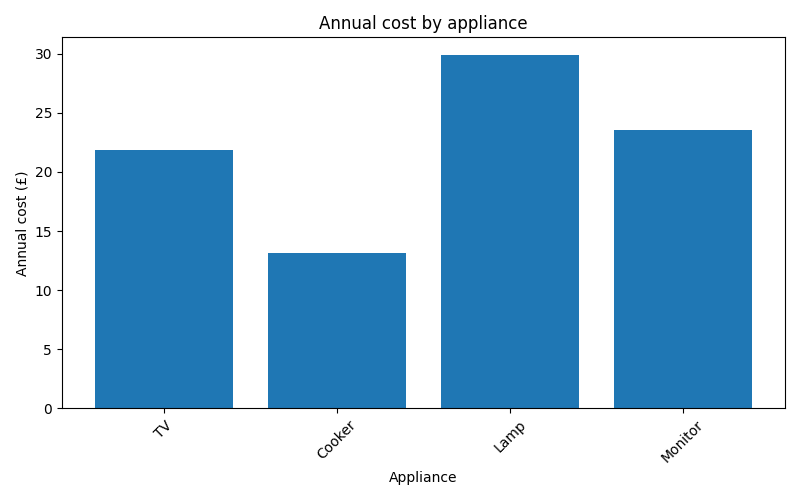
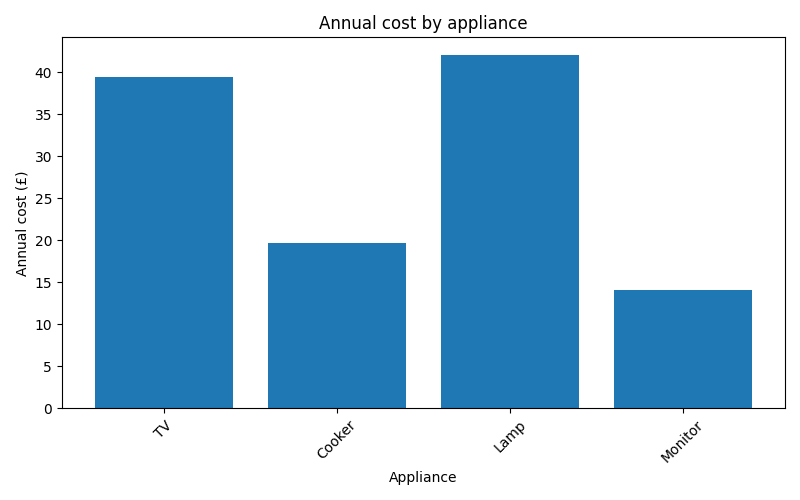
Updated mainpy

diff --git a/main.py b/main.py
@@ -93,7 +93,6 @@ print(f'Total annual cost: £{total_annual_cost:.2f}')
 print(f'Total annual emissions: {total_emissions:.2f}')
 
 df.to_csv('outputs/results.csv', index=False)
-print(df.columns)
 annual_cost_chart(df)
 
 df.to_csv('outputs/results.csv', index=False)
